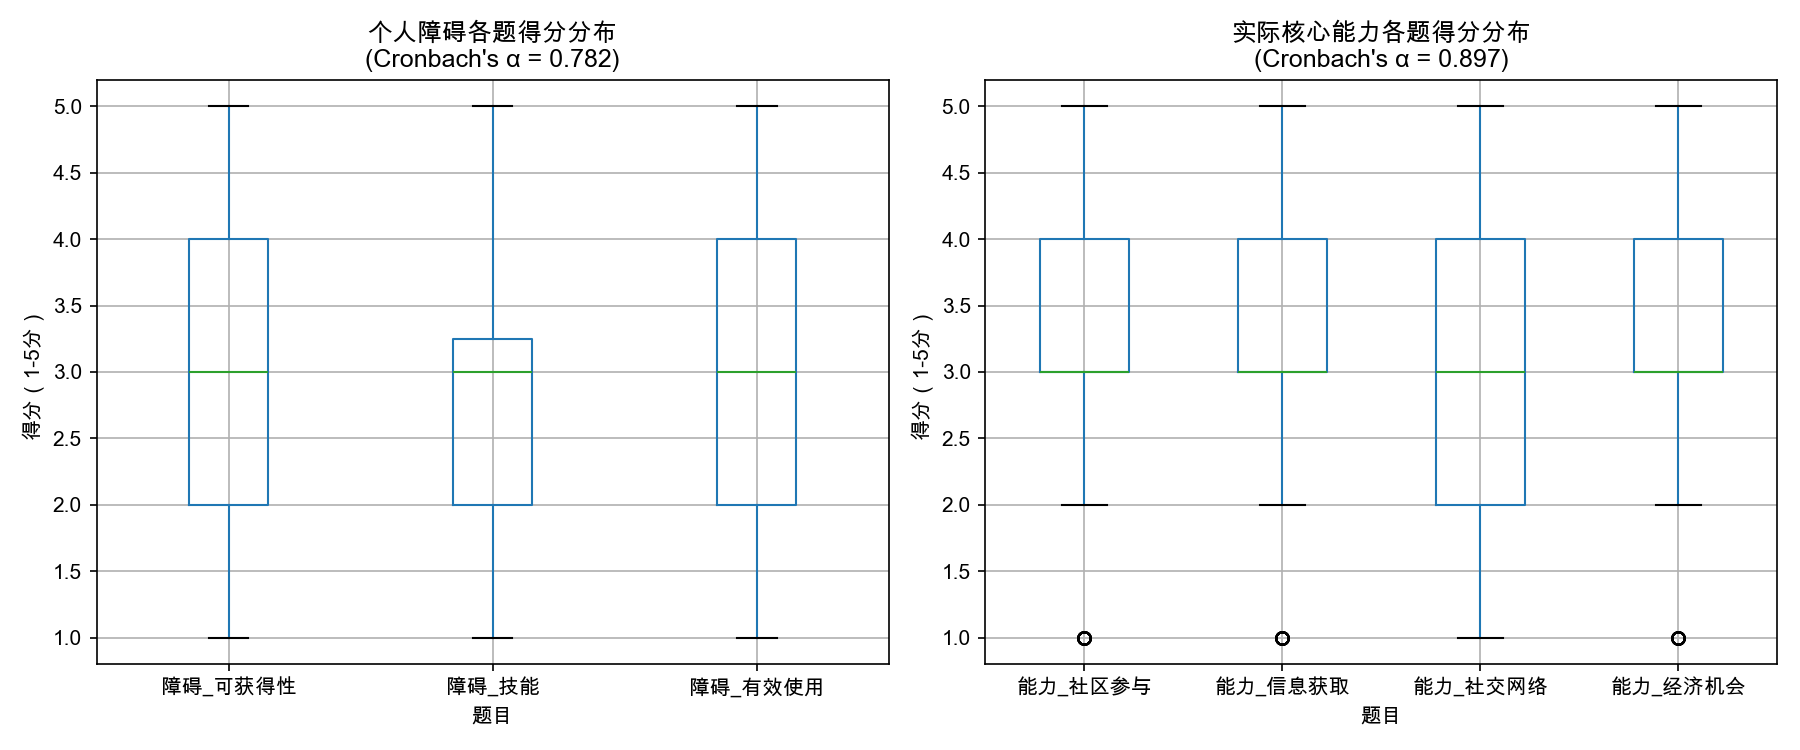
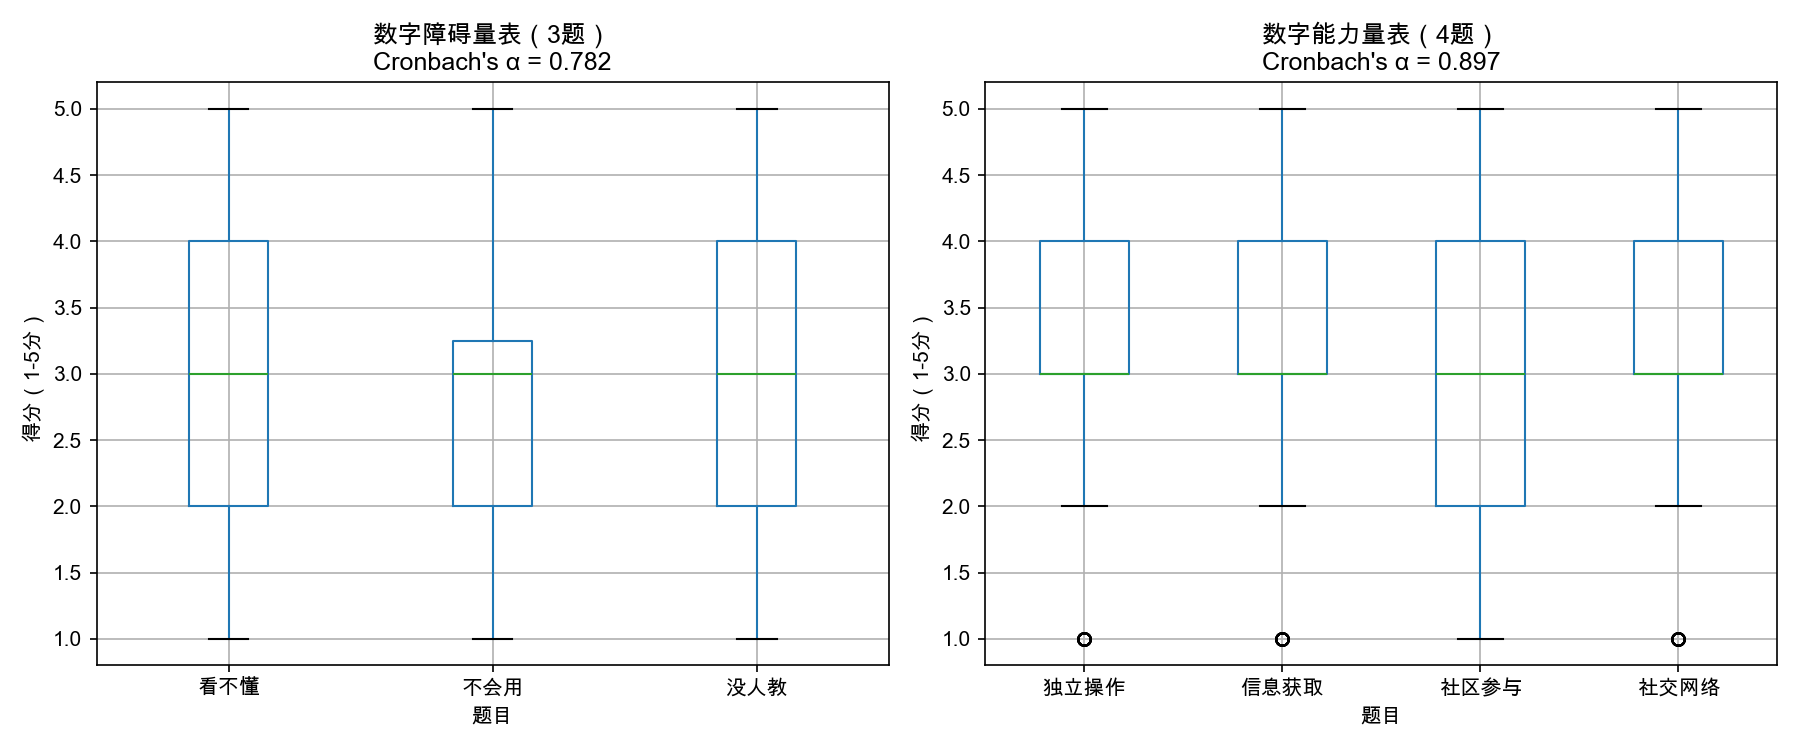
split Likert into two independent scales: barriers (α=0.78) and abilities (α=0.90)

diff --git a/likert_reliability.py b/likert_reliability.py
@@ -1,30 +1,32 @@
-# 李克特量表信度检验
-# 生成合理模拟数据 + 中文图表
+# 李克特量表信度检验（两个独立量表）
+# 量表1：数字障碍量表（3题）
+# 量表2：数字能力量表（4题）
 
-import pandas as pd
 import numpy as np
+import pandas as pd
 import matplotlib.pyplot as plt
 
 # 设置中文字体
 plt.rcParams['font.sans-serif'] = ['Arial Unicode MS', 'SimHei', 'STHeiti']
 plt.rcParams['axes.unicode_minus'] = False
 
+# ============================================================
+# 生成模拟数据（正式研究替换为真实问卷数据）
+# ============================================================
+
 np.random.seed(42)
 n = 200
 
-# ============================================================
-# 生成合理的模拟数据（题目间有正相关）
-# ============================================================
-
-# 个人障碍维度：3个问题，设定相关系数0.6
-np.random.seed(42)
+# 量表1：数字障碍（得分越高，障碍越大）
+# 题目间有正相关（一个障碍高，其他障碍也高）
 latent_obstacle = np.random.normal(0, 1, n)
 
 obstacle_q1 = 3 + latent_obstacle * 0.8 + np.random.normal(0, 0.6, n)
 obstacle_q2 = 3 + latent_obstacle * 0.8 + np.random.normal(0, 0.6, n)
 obstacle_q3 = 3 + latent_obstacle * 0.8 + np.random.normal(0, 0.6, n)
 
-# 实际核心能力维度：4个问题，设定相关系数0.7
+# 量表2：数字能力（得分越高，能力越强）
+# 题目间有正相关（一个能力强，其他能力也强）
 latent_ability = np.random.normal(0, 1, n)
 
 ability_q1 = 3 + latent_ability * 0.9 + np.random.normal(0, 0.5, n)
@@ -34,68 +36,79 @@ ability_q4 = 3 + latent_ability * 0.9 + np.random.normal(0, 0.5, n)
 
 # 合并为DataFrame，限制1-5分
 data = pd.DataFrame({
-    '障碍_可获得性': np.clip(obstacle_q1, 1, 5).round(),
-    '障碍_技能': np.clip(obstacle_q2, 1, 5).round(),
-    '障碍_有效使用': np.clip(obstacle_q3, 1, 5).round(),
-    '能力_社区参与': np.clip(ability_q1, 1, 5).round(),
-    '能力_信息获取': np.clip(ability_q2, 1, 5).round(),
-    '能力_社交网络': np.clip(ability_q3, 1, 5).round(),
-    '能力_经济机会': np.clip(ability_q4, 1, 5).round(),
+    # 数字障碍量表（3题）
+    '障碍1_看不懂': np.clip(obstacle_q1, 1, 5).round(),
+    '障碍2_不会用': np.clip(obstacle_q2, 1, 5).round(),
+    '障碍3_没人教': np.clip(obstacle_q3, 1, 5).round(),
+    # 数字能力量表（4题）
+    '能力1_独立操作': np.clip(ability_q1, 1, 5).round(),
+    '能力2_信息获取': np.clip(ability_q2, 1, 5).round(),
+    '能力3_社区参与': np.clip(ability_q3, 1, 5).round(),
+    '能力4_社交网络': np.clip(ability_q4, 1, 5).round(),
 })
 
 # ============================================================
-# 计算 Cronbach's α
+# Cronbach's α 函数
 # ============================================================
 
 def cronbach_alpha(df):
+    """计算Cronbach's α信度系数"""
     df = df.astype(float)
     item_variances = df.var(axis=0, ddof=1)
     total_variance = df.sum(axis=1).var(ddof=1)
     k = df.shape[1]
     return (k / (k - 1)) * (1 - item_variances.sum() / total_variance)
 
-obstacle_items = data[['障碍_可获得性', '障碍_技能', '障碍_有效使用']]
-ability_items = data[['能力_社区参与', '能力_信息获取', '能力_社交网络', '能力_经济机会']]
+# ============================================================
+# 分别计算两个量表的信度
+# ============================================================
+
+obstacle_items = data[['障碍1_看不懂', '障碍2_不会用', '障碍3_没人教']]
+ability_items = data[['能力1_独立操作', '能力2_信息获取', '能力3_社区参与', '能力4_社交网络']]
 
 alpha_obstacle = cronbach_alpha(obstacle_items)
 alpha_ability = cronbach_alpha(ability_items)
 
-print("=" * 50)
+print("=" * 60)
 print("李克特量表信度检验（Cronbach's α）")
-print("=" * 50)
-print(f"个人障碍（3题）: α = {alpha_obstacle:.3f}")
-print(f"实际核心能力（4题）: α = {alpha_ability:.3f}")
+print("=" * 60)
+print(f"\n量表1：数字障碍量表（3题）")
+print(f"  Cronbach's α = {alpha_obstacle:.3f}")
+print(f"  信度等级：{'良好' if alpha_obstacle >= 0.7 else '可接受' if alpha_obstacle >= 0.6 else '不足'}")
 
-# 信度等级
-def grade(alpha):
-    if alpha >= 0.9: return "非常好"
-    if alpha >= 0.7: return "良好"
-    if alpha >= 0.6: return "可接受"
-    return "不足"
+print(f"\n量表2：数字能力量表（4题）")
+print(f"  Cronbach's α = {alpha_ability:.3f}")
+print(f"  信度等级：{'良好' if alpha_ability >= 0.7 else '可接受' if alpha_ability >= 0.6 else '不足'}")
 
-print(f"\n个人障碍信度等级: {grade(alpha_obstacle)}")
-print(f"实际核心能力信度等级: {grade(alpha_ability)}")
+print("\n" + "=" * 60)
+print("判断标准：")
+print("  α ≥ 0.9 → 非常好")
+print("  0.7 ≤ α < 0.9 → 良好")
+print("  0.6 ≤ α < 0.7 → 可接受")
+print("  α < 0.6 → 不足，需修订")
 
 # ============================================================
-# 绘制箱线图（中文标题）
+# 绘制箱线图
 # ============================================================
 
 fig, axes = plt.subplots(1, 2, figsize=(12, 5))
 
-# 左边：个人障碍
+# 左边：数字障碍量表
 obstacle_items.boxplot(ax=axes[0])
-axes[0].set_title(f'个人障碍各题得分分布\n(Cronbach\'s α = {alpha_obstacle:.3f})', fontsize=12)
+axes[0].set_title(f'数字障碍量表（3题）\nCronbach\'s α = {alpha_obstacle:.3f}')
 axes[0].set_ylabel('得分（1-5分）')
 axes[0].set_xlabel('题目')
+axes[0].set_xticklabels(['看不懂', '不会用', '没人教'])
 
-# 右边：实际核心能力
+# 右边：数字能力量表
 ability_items.boxplot(ax=axes[1])
-axes[1].set_title(f'实际核心能力各题得分分布\n(Cronbach\'s α = {alpha_ability:.3f})', fontsize=12)
+axes[1].set_title(f'数字能力量表（4题）\nCronbach\'s α = {alpha_ability:.3f}')
 axes[1].set_ylabel('得分（1-5分）')
 axes[1].set_xlabel('题目')
+axes[1].set_xticklabels(['独立操作', '信息获取', '社区参与', '社交网络'])
 
 plt.tight_layout()
 plt.savefig('likert_reliability.png', dpi=150)
 plt.show()
 
-print("\n✅ 图表已保存: likert_reliarity.png")
+print("\n✅ 图表已保存: likert_reliability.png")